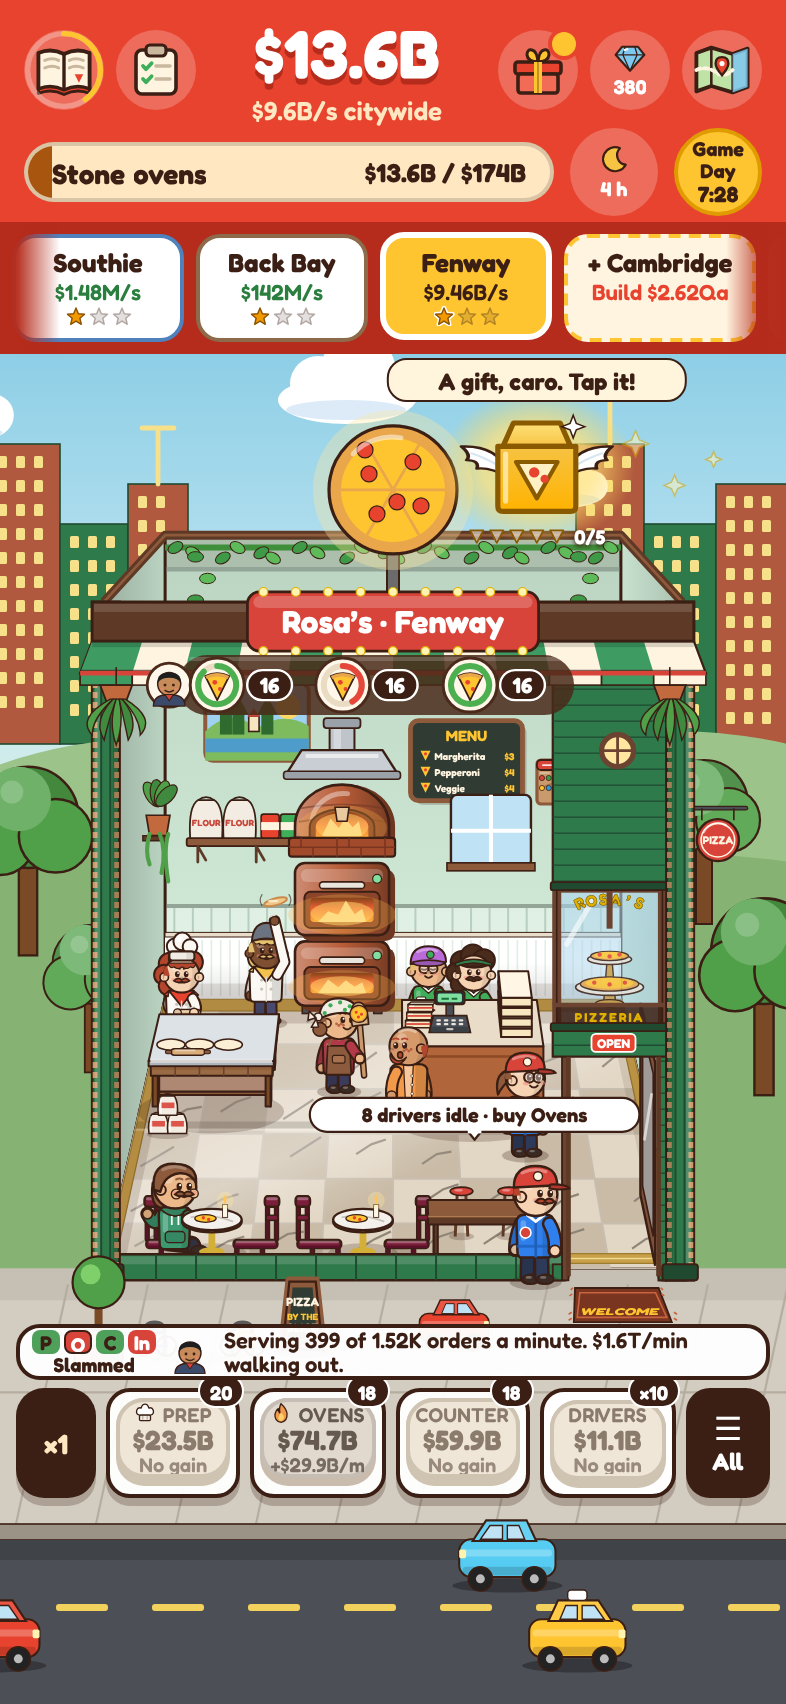
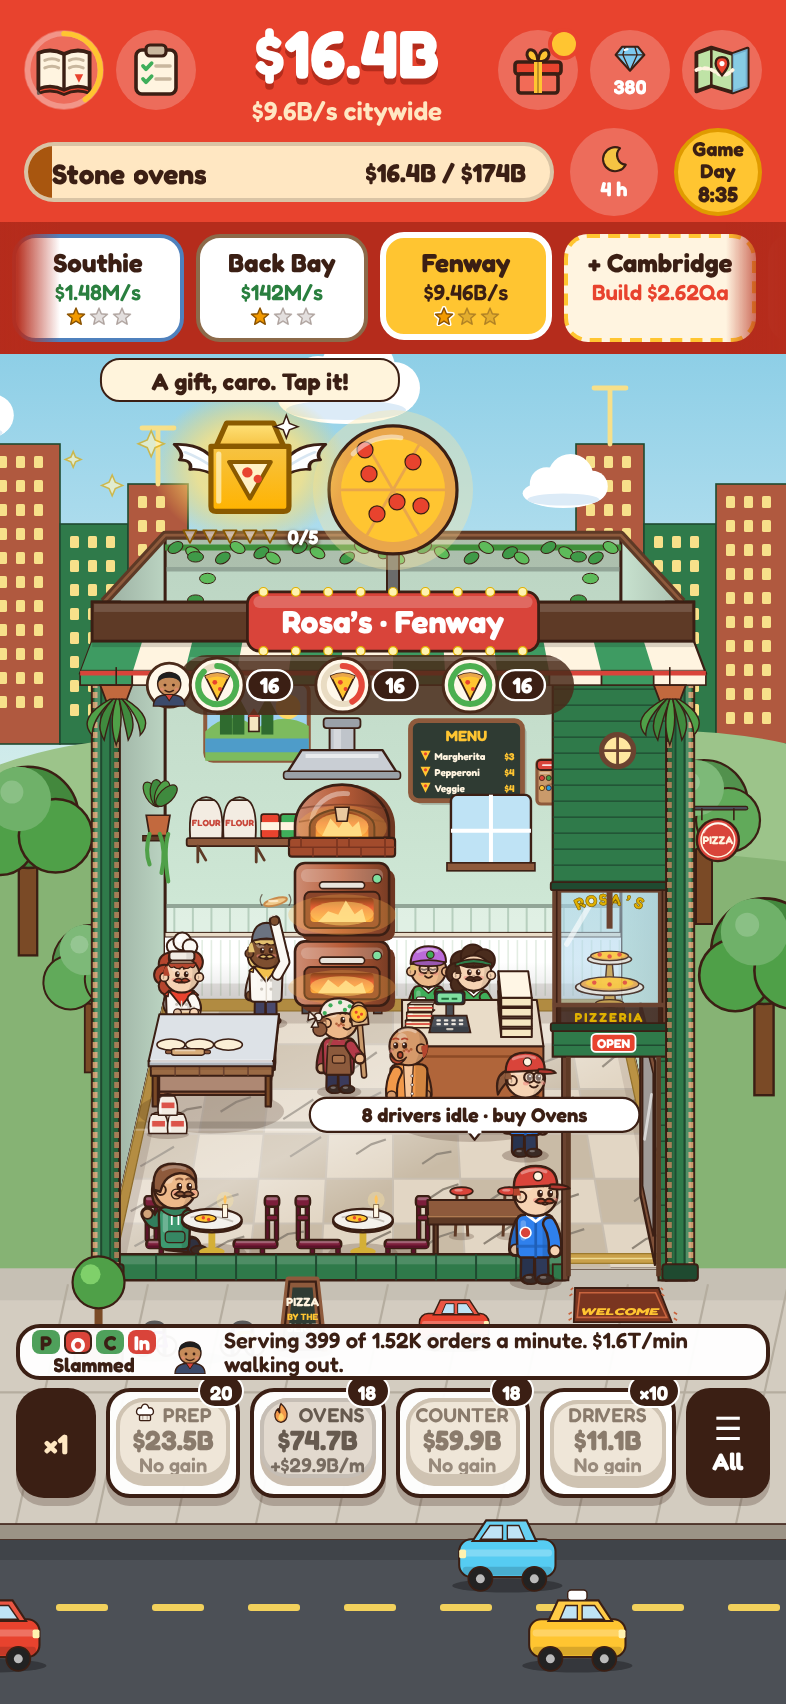
v5.19 r1: re-shoot v5.19-base 116 at eafbb5a (baseline flake); verify gate met
Claude-Session: https://claude.ai/code/session_018fJsVLWVAPbyzwsuCdvDTH

diff --git a/docs/build/STATE.md b/docs/build/STATE.md
@@ -4,9 +4,9 @@ Keep this file under 40 lines. It is the only file the orchestrator edits by han
 
 ```
 version: 5.19                   # scope: a city is only a content pack (Julien 2026-11-18); cities beyond Boston on hold
-step: verify                     # setup | waves | verify | review | fix | close
+step: review                     # setup | waves | verify | review | fix | close
 round: r1              # r1 | r2 | r3
-last_shots: v5.19                # verify r1: 9 changed (seam 00 24 104 105; R1L 145 86 86b 76; 116 under check)
+last_shots: v5.19                # verify r1: 8 changed (seam 00 24 104 105; R1L 145 86 86b 76) gate met
 codecritic_range_start: eafbb5a
 cards:                 # todo | running | done | partial | blocked
   R0: done  R0p: done  R1: done  R6: done  R1L: done  R5c: done  R7a: done  R7b: done
@@ -16,7 +16,7 @@ reviews:               # latest review file per critic, with verdict and counts
   story:  docs/build/v5.18/review-r2-story.md (r2 SATISFIED; bug 0 major 0 minor 2; U1 T1; S67 S48 carried)
   audio:  docs/build/v5.18/review-r2-audio.md (r2 SATISFIED; bug 0 major 0 minor 3 low 1; A4; AU41 AU39 AU40 AU25 carried)
 open: ON HOLD (Julien 2026-11-18): every city beyond Boston; cards in docs/build/v5.19/later/ (W4b W4s E4 E4f CITY A3) and the deferred refactor (R2 R2b R3 R4 R5f R6s) are not launched. PARKED for Julien, not in v5.19: economy refit (one pizza per tap +1/10 prep lv, home tops out ~$10M with Suburbs ~$30K, first goal <$50, ECONOMY 3->4 with old saves reset, D493 rival gated at Suburbs 2 stars, D495); don't ask about it during v5.19. Carried: A2 + audio notes AU41 AU39 AU40 AU25 AU82 (music round waits on Julien's R1 listen), SliceAudioSession native module not built; Boston heads need a writer pass (5 barks per head, one per trigger; their script has 4 numbered); Boston GMs placeholder; v5.17/v5.18 critic minors D481 D493 D495 D505 D512 D514. Tools: expo install is refused by the proxy (use npm install with the version from node_modules/expo/bundledNativeModules.json); loop_stats.py cannot read loop: commits; programmer --only takes the fixture name without .py; seam-noise shots 00/24/104/105 and 29-31b. App Store privacy label must say Tracking = Yes; native paths unverified until DEVICE-CHECKLIST.
-next: v5.19 r1 verify, open item: 116-boston-shop-layer changed 5.1% vs v5.19-base (cash/clock/gift only; identical on a pre-R1 build at 979eb27). Bisect eafbb5a vs R0 76dabc5 vs R0p 0d84ea2 in worktrees (lane E, R0p programmer); baseline flake -> re-shoot base 116, else fix. Then commit, r1 reviews per VERSION.md (codecritic medium range eafbb5a..HEAD paths src scripts .github; critic medium on R1L shots 145 86 86b 76 only), fix rounds, close.
+next: v5.19 r1 reviews running (codecritic medium eafbb5a..HEAD paths src scripts .github, session model; critic medium on R1L shots 145 86 86b 76 as a bug fix). Then gate, fix rounds, close.
 ```
 
 ## Log (one line per event, newest last; trim to the last 10)
@@ -31,3 +31,4 @@ next: v5.19 r1 verify, open item: 116-boston-shop-layer changed 5.1% vs v5.19-ba
 - 2026-11-18 Julien: hold every city beyond Boston; v5.19 = city is only a content pack. VERSION.md rewritten (R0 R0p R1 R6 R1L R5c + new R7a R7b); held and deferred cards moved to v5.19/later/. Next: wave 0.
 
 - 2026-11-19 v5.19 waves 0-7 done (R0 R0p R1 R6 R1L R5c R7a R7b; dev deps eslint/prettier approved by Julien). Verify: True 0 [], layout 0, 9 changed = seam 00 24 104 105 + R1L 145 86 86b 76 + 116 (open). Pack guard ALLOW 0. Session ended by Julien before reviews.
+- 2026-11-19 116 bisect: eafbb5a, R0, R0p all give the new 116 (deterministic) -> baseline flake; v5.19-base 116 re-shot at eafbb5a. review_shots: 8 changed (seam + R1L only), gate met.
